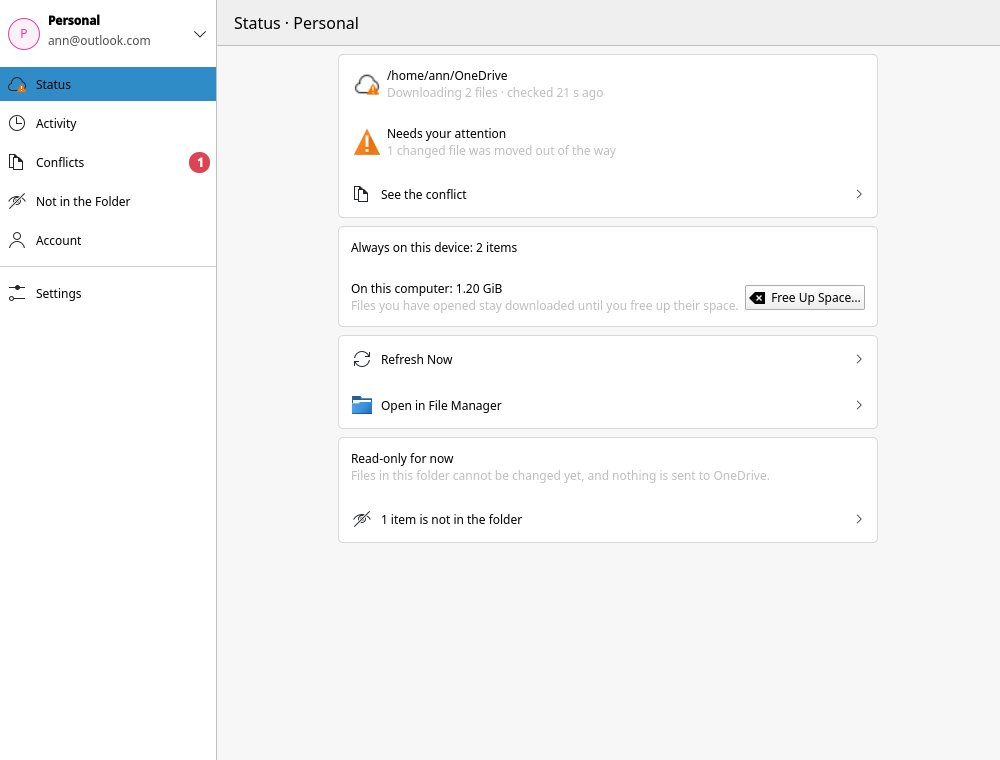
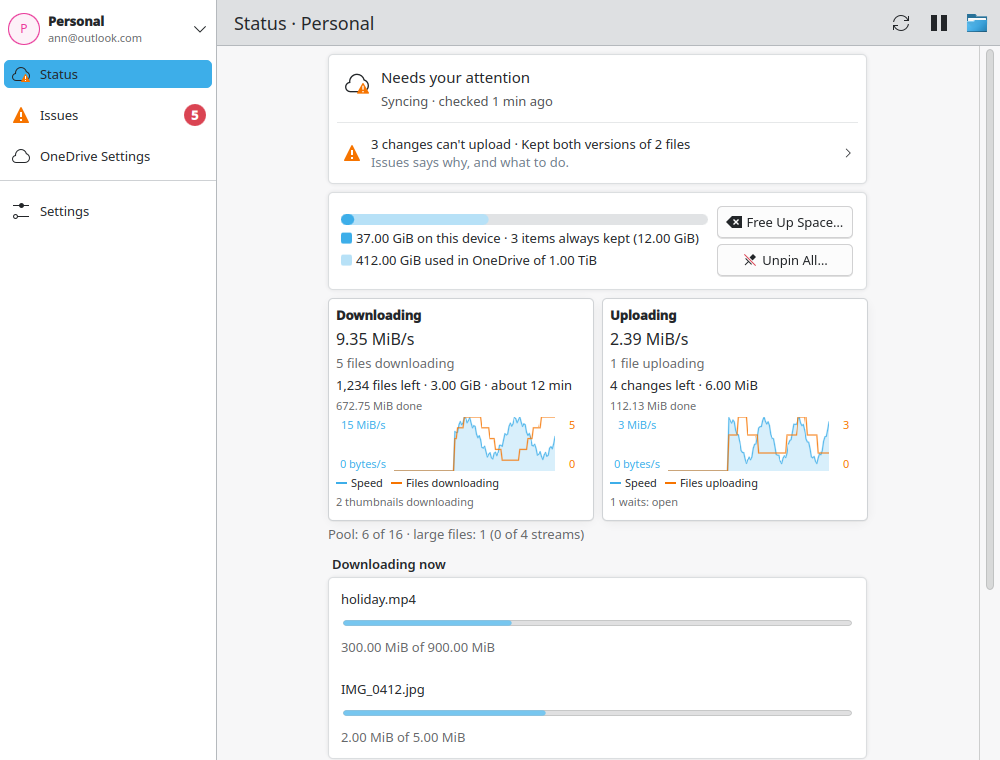
The README shows Status, Issues and OneDrive Settings as they are now
The pictures were of Status, Activity and Account as they were before the window was laid out
around one OneDrive. They are taken again with the same example data from a test daemon, two
accounts with "Personal" chosen, at the same size, with the charts drawn.

diff --git a/README.md b/README.md
@@ -26,9 +26,9 @@ folder of files at their real sizes, and a file downloads when something reads i
 
 ## Screenshots
 
-| Status | Activity | Account |
+| Status | Issues | OneDrive Settings |
 | --- | --- | --- |
-| ![Status page](docs/screenshots/status.png) | ![Activity page](docs/screenshots/activity.png) | ![Account page](docs/screenshots/account.png) |
+| ![Status page](docs/screenshots/status.png) | ![Issues page](docs/screenshots/issues.png) | ![OneDrive Settings page](docs/screenshots/onedrive-settings.png) |
 
 (Shown with example data from a test daemon, not a real OneDrive account: two accounts,
 "Personal" chosen in the switcher at the top of the sidebar.)
